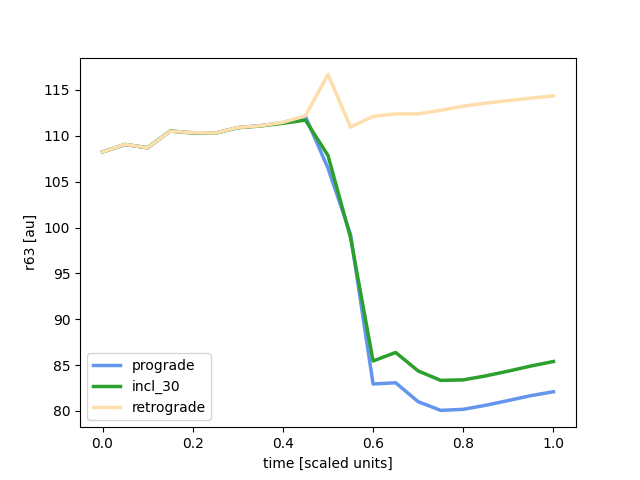
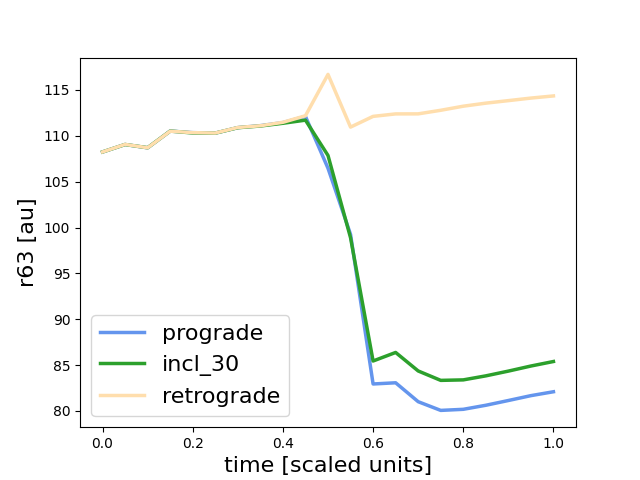
more figures fixes

Changed region(s): [[0.125, 0.6562, 0.4375, 0.875], [0.3438, 0.9375, 0.6875, 1.0], [0.0312, 0.4062, 0.0625, 0.5938]]

diff --git a/paper figures.py b/paper figures.py
@@ -9,7 +9,7 @@ from render import render
 FOLDERS = ['prograde', 'incl_30', 'retrograde']
 PARTICLE_INDICES = [1] # 0 = gas, 1 = dust1, 2 = dust2, 3 = sinks
 COLORS = ['cornflowerblue','tab:green', 'navajowhite']
-
+fs = 12
 def processData(sdf, sdf_sinks):
     sdf.calc_density()
 
@@ -136,19 +136,19 @@ for folder in FOLDERS:
     results3[folder] = dict(sorted(results3[folder].items()))
     ax_dust2.plot(list(results3[folder].keys()), list(results3[folder].values()),linewidth = 2.5 , label=folder, color=color)
 
-ax_gas.set_xlabel("time [scaled units]")
-ax_gas.set_ylabel("r63 [au]")
-ax_gas.legend()
+ax_gas.set_xlabel("time [scaled units]", fontsize = fs)
+ax_gas.set_ylabel("r63 [au]", fontsize = fs)
+ax_gas.legend(fontsize = fs)
 fig_gas.savefig('renders/CRGas.png')
 
-ax_dust1.set_xlabel("time [scaled units]")
-ax_dust1.set_ylabel("r63 [au]")
-ax_dust1.legend()
+ax_dust1.set_xlabel("time [scaled units]", fontsize = fs)
+ax_dust1.set_ylabel("r63 [au]", fontsize = fs)
+ax_dust1.legend(fontsize = fs)
 fig_dust1.savefig('renders/CRDust1.png')
 
-ax_dust2.set_xlabel("time [scaled units]")
-ax_dust2.set_ylabel("r63 [au]")
-ax_dust2.legend()
+ax_dust2.set_xlabel("time [scaled units]", fontsize = fs)
+ax_dust2.set_ylabel("r63 [au]", fontsize = fs)
+ax_dust2.legend(fontsize = fs)
 fig_dust2.savefig('renders/CRDust2.png')
 
 plt.show()
